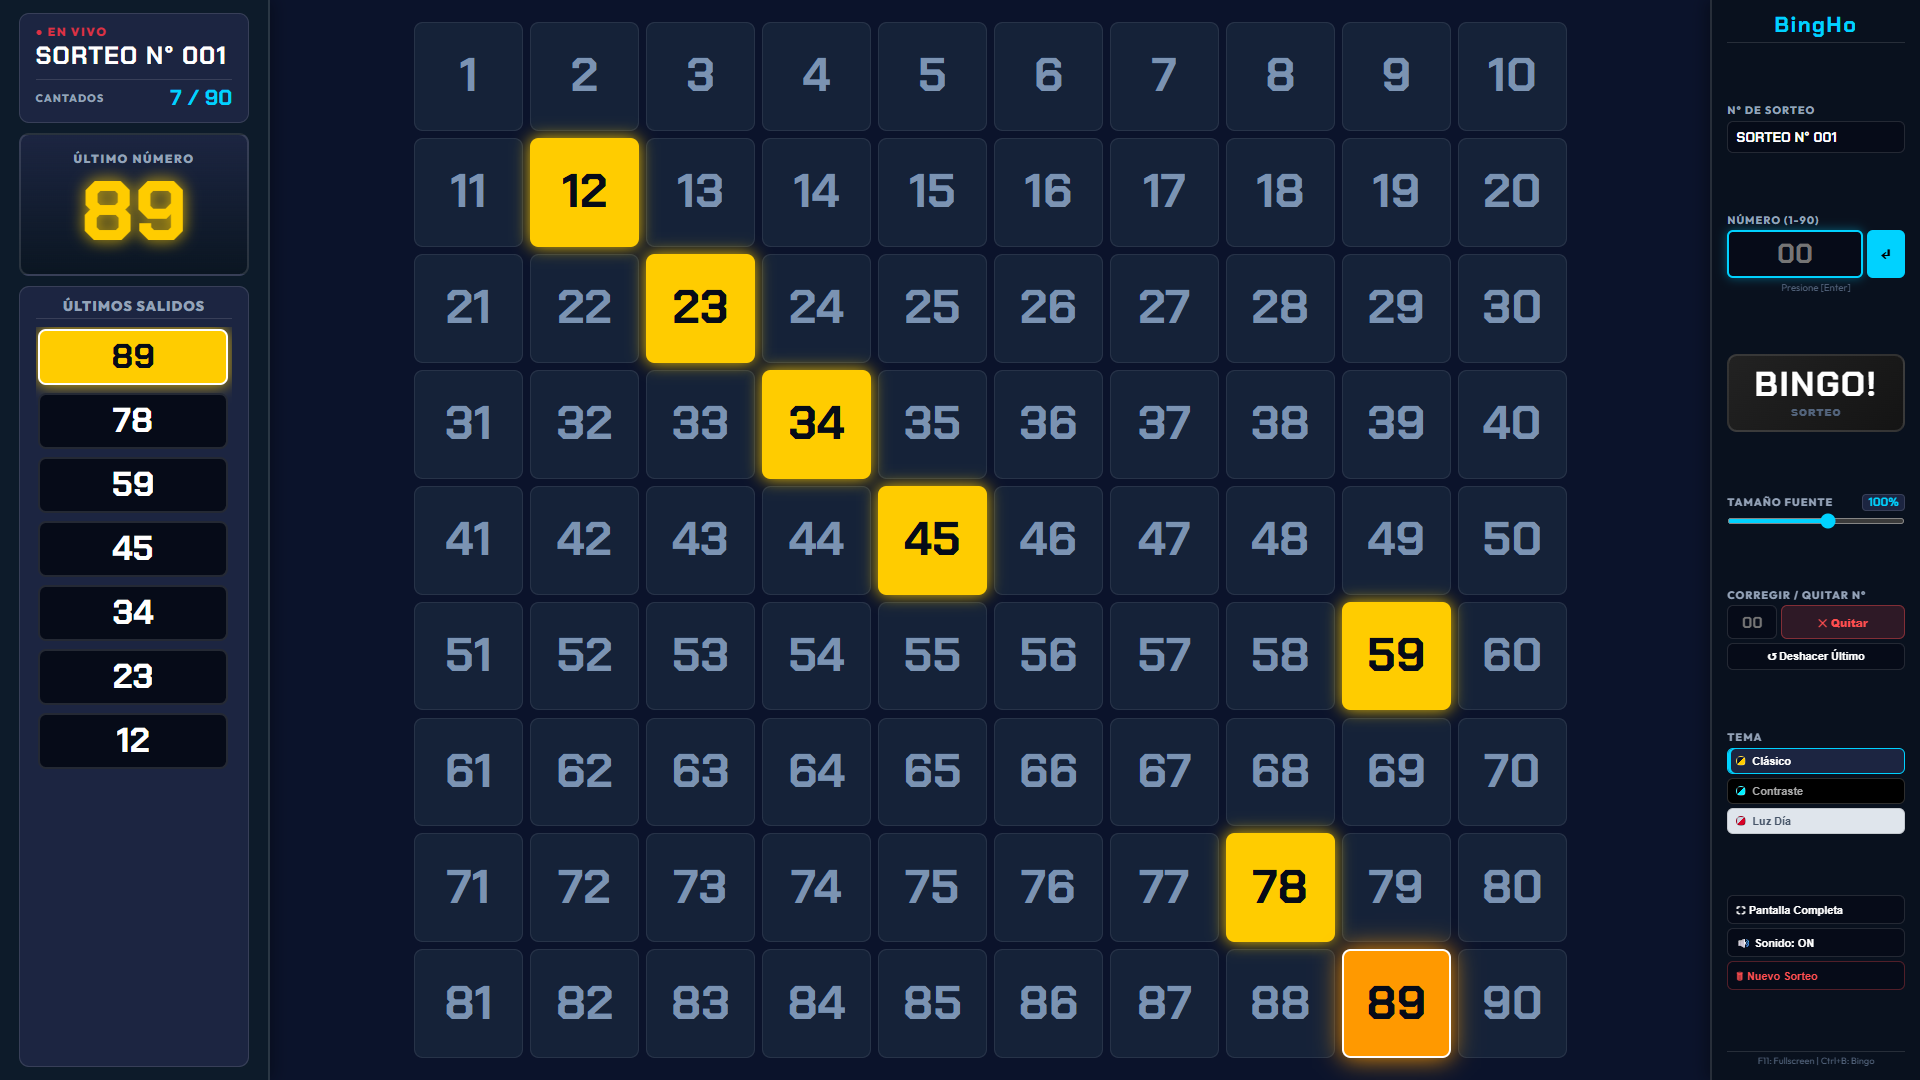
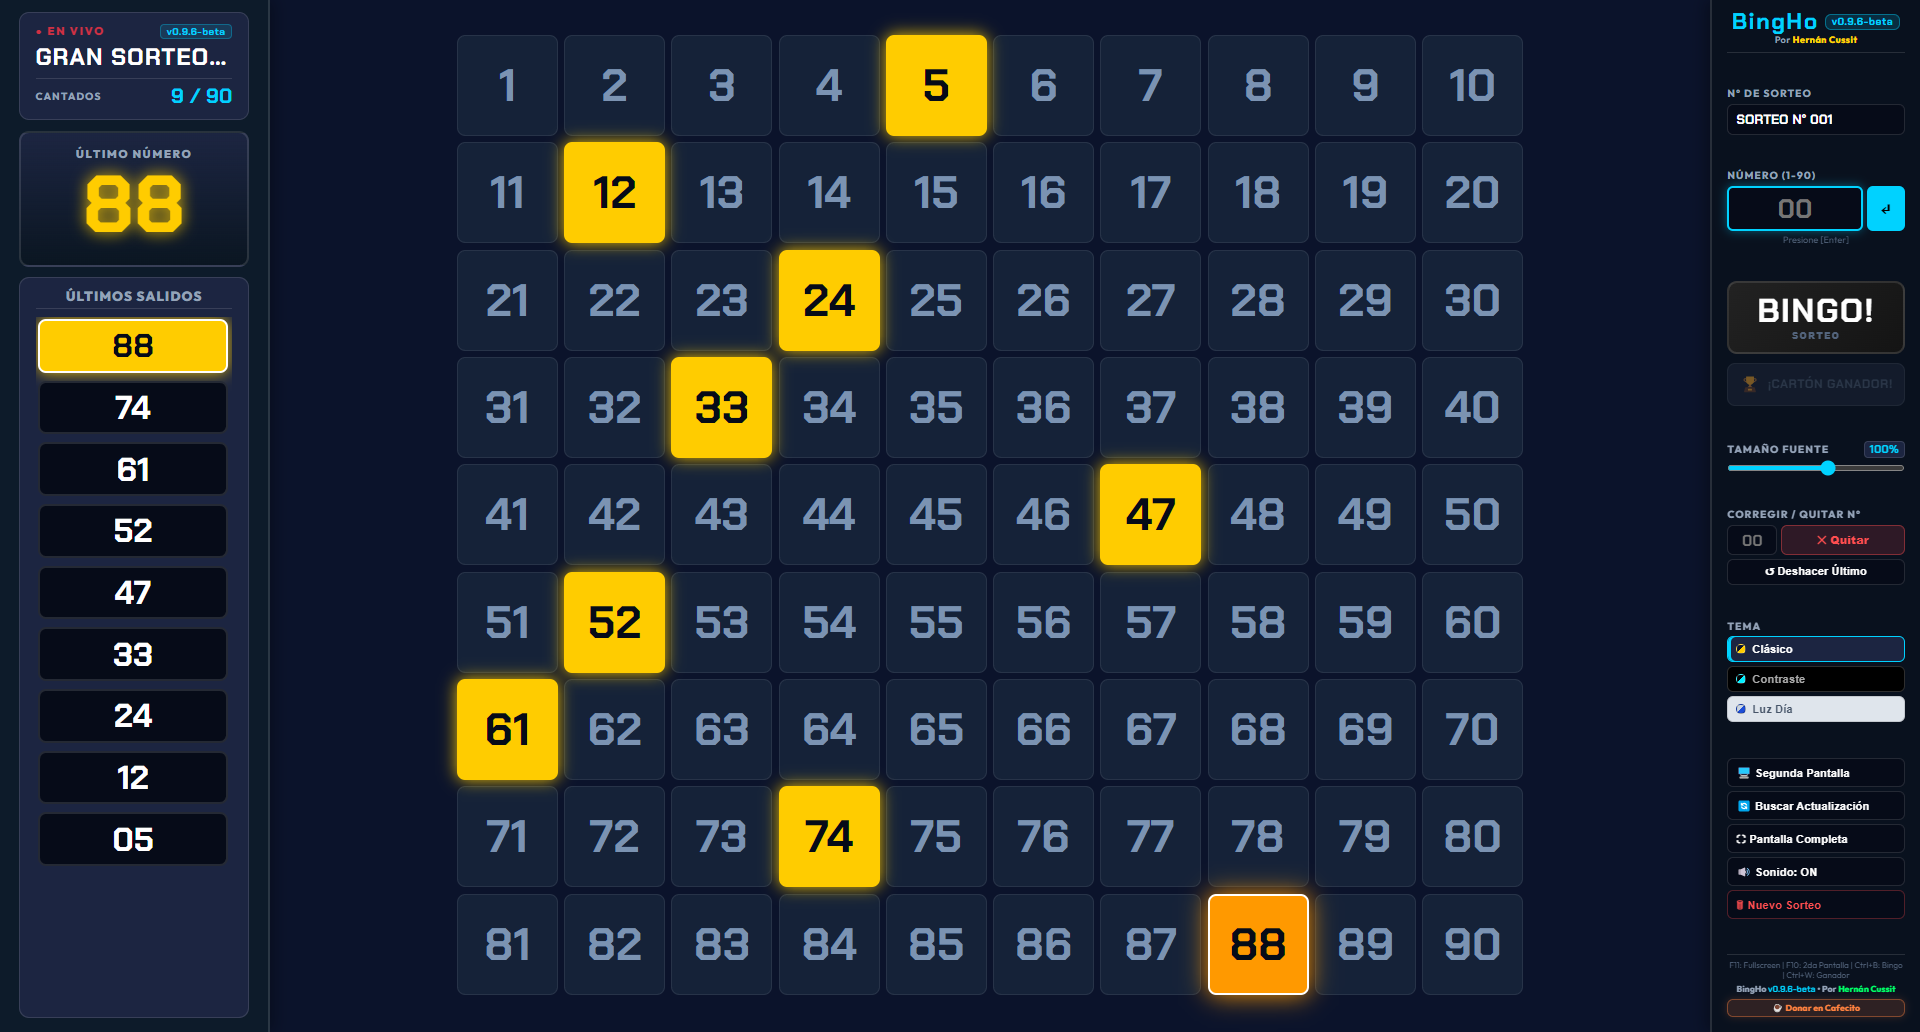
docs: actualizar capturas de pantalla, anadir vista de carton ganador y reemplazar bola 8 por icono de carton de bingo

diff --git a/README.md b/README.md
@@ -1,4 +1,4 @@
-# 🎱 BingHo
+# 🎟 BingHo
 
 [![GitHub Release](https://img.shields.io/github/v/release/hernancussit/BingHo?color=00ff66&label=Versi%C3%B3n)](https://github.com/hernancussit/BingHo/releases)
 [![Platform](https://img.shields.io/badge/Plataforma-Windows%2010%20%7C%2011%20(x64)-00d2ff)](https://github.com/hernancussit/BingHo/releases)
@@ -7,7 +7,11 @@
 
 **BingHo** es un sistema profesional, moderno y gratuito para la gestión, control y proyección en tiempo real de tableros de Bingo (números del 1 al 90). Diseñado específicamente para eventos presenciales, salones de fiestas, festivales, clubes deportivos, peñas benéficas, escuelas, transmisiones en vivo (streaming) y pantallas LED de gran formato.
 
-![BingHo - Tablero de Bingo](preview.png)
+### 🎮 Tablero Principal y Control de Sorteo
+![BingHo - Tablero de Control y Sorteo en Vivo](preview.png)
+
+### 🏆 Celebración y Festejo de Cartón Ganador
+![BingHo - Celebración de Cartón Ganador](preview_winner.png)
 
 ---
 
